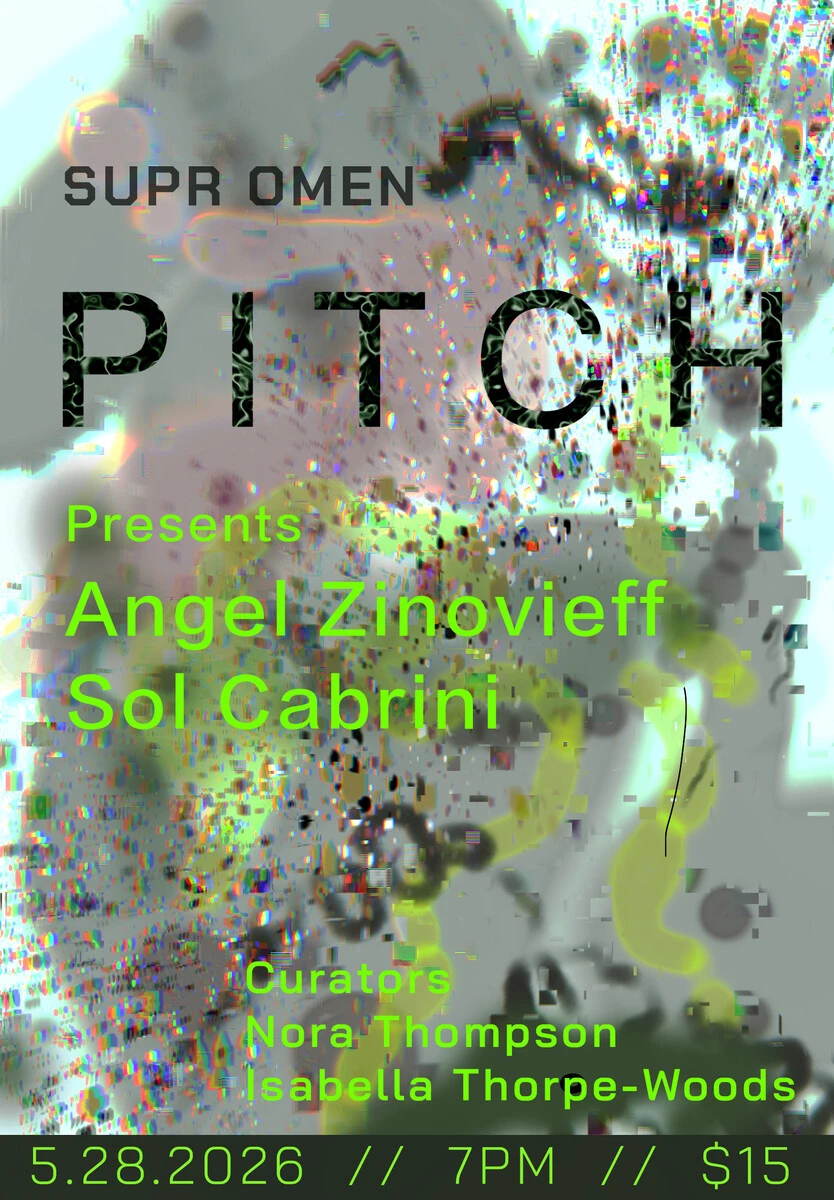
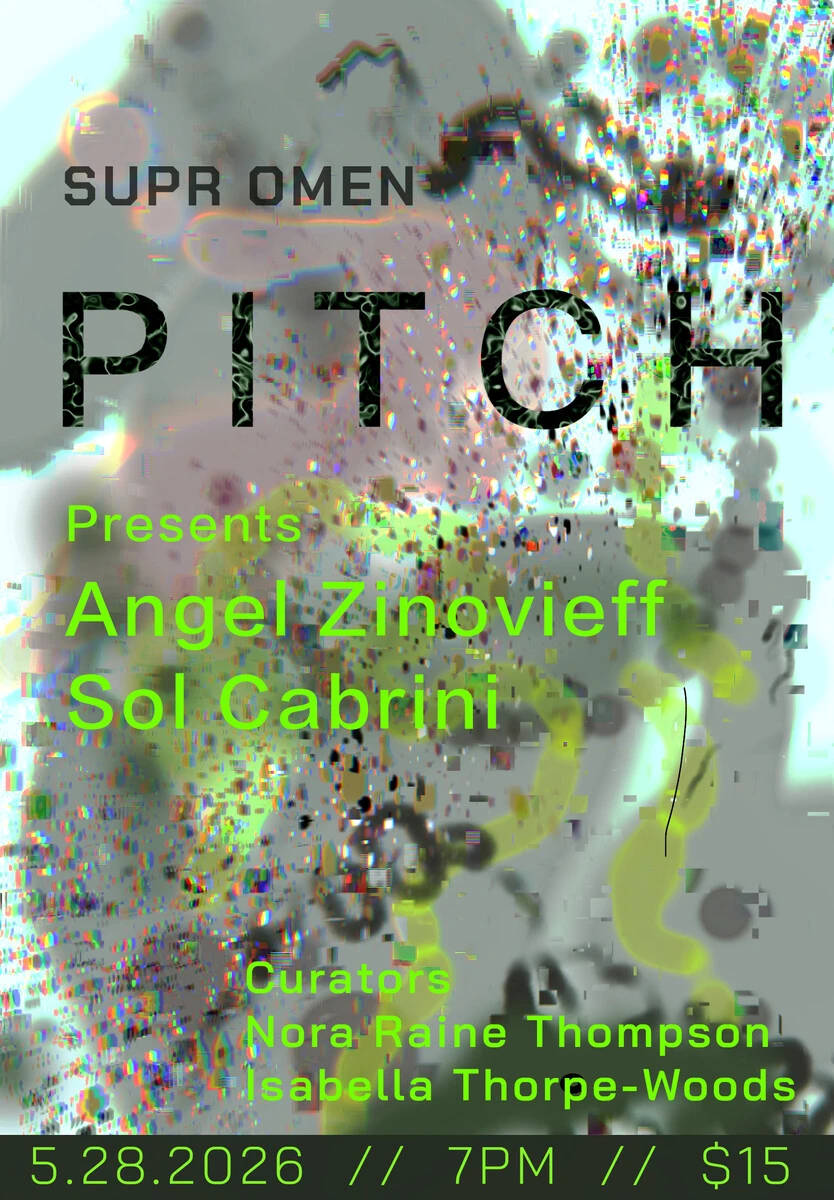
update events

Changed region(s): [[0.4365, 0.8325, 0.9353, 0.8942]]

diff --git a/docs/curatorial-programs/index.html b/docs/curatorial-programs/index.html
@@ -42,7 +42,7 @@
   <h2 class="shop-heading">PITCH</h2>
   <p>Pitch is a monthly program presented by SUPR OMEN showcasing performances by early career dance &amp; performance makers, curated by emerging dance &amp; performance curators and makers.</p>
   <p>Curators work solo or in teams to produce and present a season of three performances. Curators are encouraged to use the opportunity to work with emerging artists they would like to build long-term collaborative partnerships with and to develop their own curatorial approach to presenting dance. The philosophy behind the program is to create a way for emerging artists to support and invest in each other by building meaningful relationships in a field that often promotes competition over community.</p>
-  <p>The first season of Pitch is curated by <a href="https://www.instagram.com/bellathorpewoods/" target="_blank" rel="noopener" style="text-decoration: underline;">Isabella Thorpe Woods</a> and <a href="https://norarainethompson.org/about/" target="_blank" rel="noopener" style="text-decoration: underline;">Nora Raine Thompson</a>.</p>
+  <p>The first season of Pitch is curated by <a href="https://www.instagram.com/bellathorpewoods/" target="_blank" rel="noopener" style="text-decoration: underline;">Isabella Thorpe-Woods</a> and <a href="https://norarainethompson.org/about/" target="_blank" rel="noopener" style="text-decoration: underline;">Nora Raine Thompson</a>.</p>
   <p>Curators are selected by nomination. If you would like to nominate a curator, please email <a href="mailto:info@supromen.com" style="text-decoration: underline;">info@supromen.com</a>.</p>
 </div>
 

diff --git a/docs/events/index.html b/docs/events/index.html
@@ -77,7 +77,7 @@
     </div>
     <h3 class="event-title">PITCH presents Angel Zinovieff and Sol Cabrini</h3>
     <div class="event-text">
-      <p>May 28 7pm | SUPR OMEN welcomes Angel Zinovieff and Sol Cabrini as the premier performance for PITCH, curated by Bella Thorpe Woods and Nora Raine Thompson.</p>
+      <p>May 28 7pm | SUPR OMEN welcomes Angel Zinovieff and Sol Cabrini as the premier performance for PITCH, curated by Isabella Thorpe-Woods and Nora Raine Thompson.</p>
       <p>PITCH is a monthly program showcasing performances by early career dance &amp; performance makers, curated by emerging dance &amp; performance curators and makers. The first season of Pitch is curated by Bella Thorpe Woods and Nora Raine Thompson.</p>
       <p><a href="https://withfriends.events/event/aN9AuOt0/pitch-presents-angel-zinovieff-and-sol-cabrini/" target="_blank" rel="noopener">Tickets available now</a></p>
     </div>

diff --git a/content/pages/curatorial-programs.md b/content/pages/curatorial-programs.md
@@ -17,7 +17,7 @@ Status: published
   <h2 class="shop-heading">PITCH</h2>
   <p>Pitch is a monthly program presented by SUPR OMEN showcasing performances by early career dance &amp; performance makers, curated by emerging dance &amp; performance curators and makers.</p>
   <p>Curators work solo or in teams to produce and present a season of three performances. Curators are encouraged to use the opportunity to work with emerging artists they would like to build long-term collaborative partnerships with and to develop their own curatorial approach to presenting dance. The philosophy behind the program is to create a way for emerging artists to support and invest in each other by building meaningful relationships in a field that often promotes competition over community.</p>
-  <p>The first season of Pitch is curated by <a href="https://www.instagram.com/bellathorpewoods/" target="_blank" rel="noopener" style="text-decoration: underline;">Isabella Thorpe Woods</a> and <a href="https://norarainethompson.org/about/" target="_blank" rel="noopener" style="text-decoration: underline;">Nora Raine Thompson</a>.</p>
+  <p>The first season of Pitch is curated by <a href="https://www.instagram.com/bellathorpewoods/" target="_blank" rel="noopener" style="text-decoration: underline;">Isabella Thorpe-Woods</a> and <a href="https://norarainethompson.org/about/" target="_blank" rel="noopener" style="text-decoration: underline;">Nora Raine Thompson</a>.</p>
   <p>Curators are selected by nomination. If you would like to nominate a curator, please email <a href="mailto:info@supromen.com" style="text-decoration: underline;">info@supromen.com</a>.</p>
 </div>
 

diff --git a/content/pages/events.md b/content/pages/events.md
@@ -52,7 +52,7 @@ Status: published
     </div>
     <h3 class="event-title">PITCH presents Angel Zinovieff and Sol Cabrini</h3>
     <div class="event-text">
-      <p>May 28 7pm | SUPR OMEN welcomes Angel Zinovieff and Sol Cabrini as the premier performance for PITCH, curated by Bella Thorpe Woods and Nora Raine Thompson.</p>
+      <p>May 28 7pm | SUPR OMEN welcomes Angel Zinovieff and Sol Cabrini as the premier performance for PITCH, curated by Isabella Thorpe-Woods and Nora Raine Thompson.</p>
       <p>PITCH is a monthly program showcasing performances by early career dance &amp; performance makers, curated by emerging dance &amp; performance curators and makers. The first season of Pitch is curated by Bella Thorpe Woods and Nora Raine Thompson.</p>
       <p><a href="https://withfriends.events/event/aN9AuOt0/pitch-presents-angel-zinovieff-and-sol-cabrini/" target="_blank" rel="noopener">Tickets available now</a></p>
     </div>
